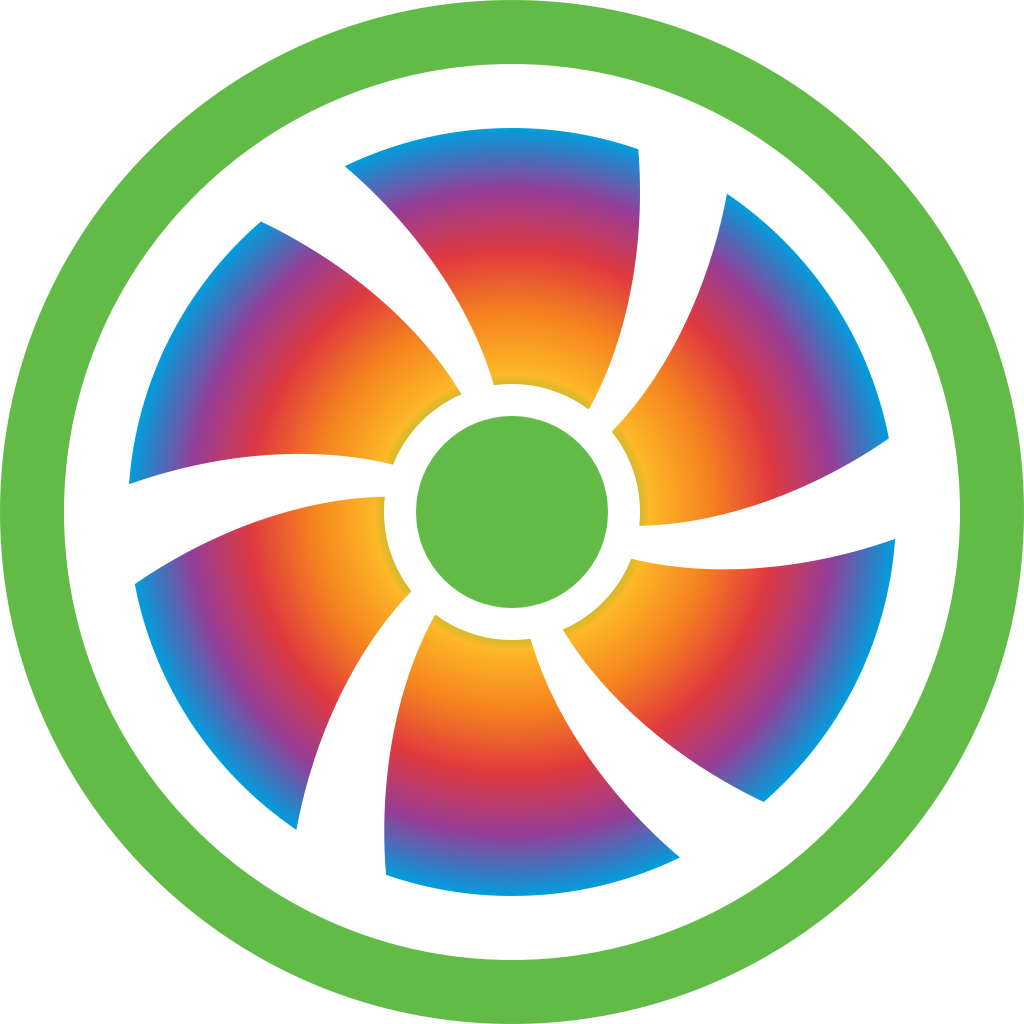
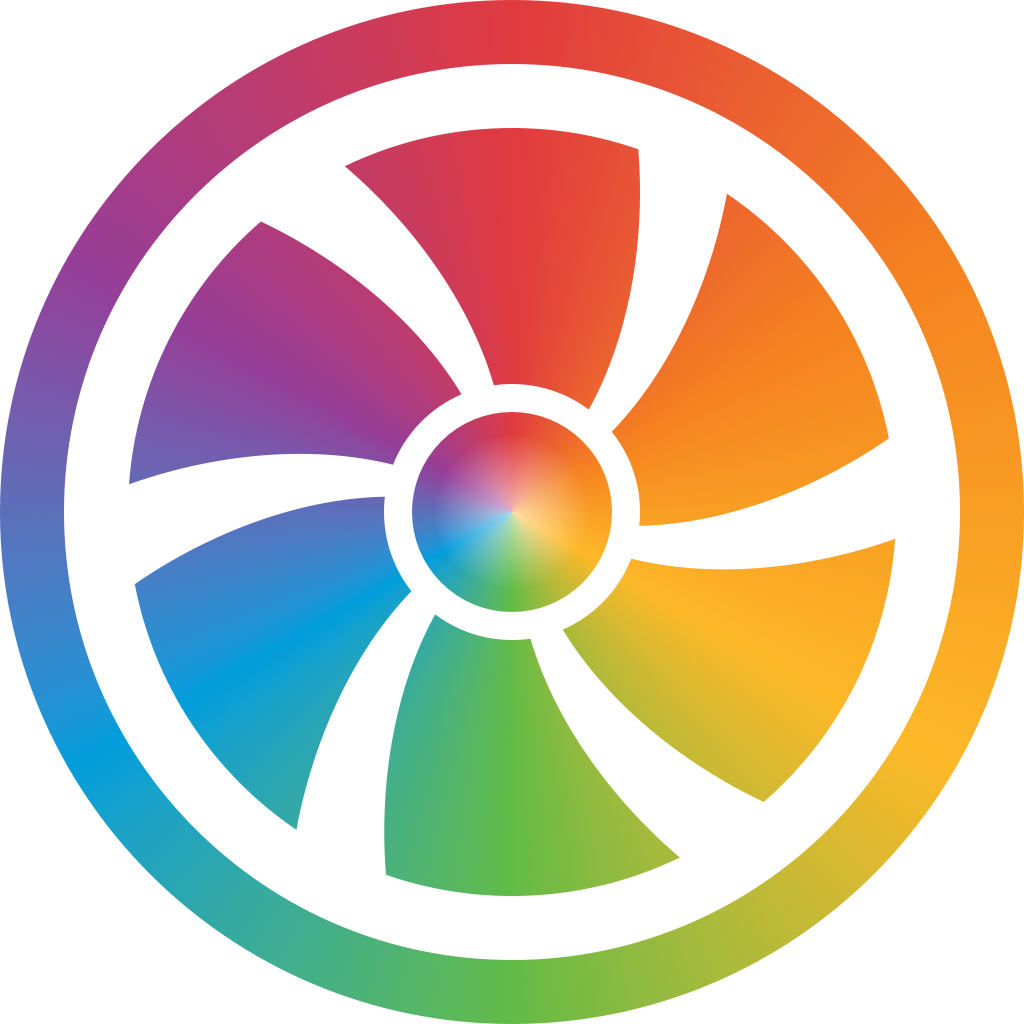
Draw the rainbow fan as a pinwheel with a solid, lit hub

diff --git a/scripts/make-rainbow-icon.swift b/scripts/make-rainbow-icon.swift
@@ -1,9 +1,10 @@
-// Draws the fan in the six colors of the rainbow, in rings from the hub outward, for the app icon that
+// Draws the fan in the six colors of the rainbow, running around the hub, for the app icon that
 // AirFlow shows while Adaptive is the current preset. The picture is a layer of the Icon Composer
 // document AppIconRainbow.icon, so macOS gives it Liquid Glass like the first icon.
 //
 //   swift scripts/make-rainbow-icon.swift
 import AppKit
+import QuartzCore
 
 let root = URL(fileURLWithPath: FileManager.default.currentDirectoryPath)
 let parts = root.appendingPathComponent("AirFlow/Resources/AppIcon.icon/Assets")
@@ -20,19 +21,31 @@ for name in ["housing.svg", "blades.svg"] {
     guard let part = NSImage(contentsOf: parts.appendingPathComponent(name)) else { fatalError("no \(name)") }
     part.draw(in: rect)
 }
-// The hub is one solid disc: the mark's dot, filled out a little, with a gap left before the blades.
+// The hub is one solid disc: the mark's dot, filled out, with a gap left before the blades.
 NSColor.black.setFill()
-NSBezierPath(ovalIn: NSRect(x: side / 2 - 96, y: side / 2 - 96, width: 192, height: 192)).fill()
-// The rainbow runs outward in rings, drawn through the fan. The hub is one color, the blades step
-// through the others, and the housing comes back to the hub's color.
+NSBezierPath(ovalIn: NSRect(x: side / 2 - 100, y: side / 2 - 100, width: 200, height: 200)).fill()
+// The rainbow runs around the hub like a pinwheel, drawn through the fan.
+let rainbow: [UInt32] = [0x61BB46, 0xFDB827, 0xF5821F, 0xE03A3E, 0x963D97, 0x009DDC]
 context.cgContext.setBlendMode(.sourceIn)
-let stops: [(CGFloat, UInt32)] = [(0, 0x61BB46), (0.19, 0x61BB46), (0.27, 0xFDB827), (0.39, 0xF5821F), (0.51, 0xE03A3E), (0.63, 0x963D97), (0.75, 0x009DDC), (0.86, 0x61BB46), (1, 0x61BB46)]
-let ringColors = stops.map { stop in
-    CGColor(srgbRed: CGFloat((stop.1 >> 16) & 0xFF) / 255, green: CGFloat((stop.1 >> 8) & 0xFF) / 255, blue: CGFloat(stop.1 & 0xFF) / 255, alpha: 1)
+let wheel = CAGradientLayer()
+wheel.type = .conic
+wheel.frame = rect
+wheel.startPoint = CGPoint(x: 0.5, y: 0.5)
+wheel.endPoint = CGPoint(x: 0.5, y: 0)
+wheel.colors = (rainbow + rainbow.prefix(1)).map { hex in
+    CGColor(srgbRed: CGFloat((hex >> 16) & 0xFF) / 255, green: CGFloat((hex >> 8) & 0xFF) / 255, blue: CGFloat(hex & 0xFF) / 255, alpha: 1)
 }
-guard let rings = CGGradient(colorsSpace: CGColorSpace(name: CGColorSpace.sRGB), colors: ringColors as CFArray, locations: stops.map(\.0)) else { fatalError("no gradient") }
-let middle = CGPoint(x: side / 2, y: side / 2)
-context.cgContext.drawRadialGradient(rings, startCenter: middle, startRadius: 0, endCenter: middle, endRadius: CGFloat(side) / 2, options: [.drawsAfterEndLocation])
+context.cgContext.beginTransparencyLayer(auxiliaryInfo: nil)
+wheel.render(in: context.cgContext)
+context.cgContext.endTransparencyLayer()
+// Every color meets in a point at the middle. A soft light there hides the point, so the hub reads
+// as a bead of the rainbow and not as a small wheel of its own.
+context.cgContext.setBlendMode(.sourceAtop)
+let light = [CGColor(srgbRed: 1, green: 1, blue: 1, alpha: 0.6), CGColor(srgbRed: 1, green: 1, blue: 1, alpha: 0)]
+if let glow = CGGradient(colorsSpace: CGColorSpace(name: CGColorSpace.sRGB), colors: light as CFArray, locations: [0, 1]) {
+    let middle = CGPoint(x: side / 2, y: side / 2)
+    context.cgContext.drawRadialGradient(glow, startCenter: middle, startRadius: 0, endCenter: middle, endRadius: 78, options: [])
+}
 NSGraphicsContext.restoreGraphicsState()
 guard let data = bitmap.representation(using: .png, properties: [:]) else { fatalError("no PNG") }
 try data.write(to: out)

diff --git a/AirFlow/Views/Components/AirAnimation.swift b/AirFlow/Views/Components/AirAnimation.swift
@@ -227,14 +227,15 @@ struct Rotor: View {
     var body: some View {
         if isRainbow {
             // The rotor is the stencil, and the rainbow shows through it.
-            // The rainbow runs outward in rings: the hub is one color, the blades step through the
-            // others, and the housing comes back to the hub's color.
-            RadialGradient(stops: Palette.rainbowRings, center: .center, startRadius: 0, endRadius: size / 2)
+            // The rainbow runs around the hub like a pinwheel. A soft light in the middle hides the
+            // point where every color meets.
+            AngularGradient(colors: Palette.rainbow + Palette.rainbow.prefix(1), center: .center)
+                .overlay(RadialGradient(colors: [.white.opacity(0.6), .white.opacity(0)], center: .center, startRadius: 0, endRadius: size * 0.076))
                 .mask {
                     ZStack {
                         AirAnimation(name: Animations.rotor, loops: true, isActive: isActive, speed: Self.turnsPerSecond(for: fan), tint: .white)
                         // The hub is one solid disc, with a gap left before the blades.
-                        Circle().frame(width: size * 0.1875, height: size * 0.1875)
+                        Circle().frame(width: size * 0.195, height: size * 0.195)
                     }
                 }
                 .frame(width: size, height: size)

diff --git a/AirFlow/Utilities/Theme.swift b/AirFlow/Utilities/Theme.swift
@@ -104,11 +104,6 @@ enum Palette {
     /// They color the fan while Adaptive is the current preset.
     static let rainbow: [Color] = [0x61BB46, 0xFDB827, 0xF5821F, 0xE03A3E, 0x963D97, 0x009DDC].map { Color(light: $0, dark: $0) }
 
-    /// The rainbow as rings from a fan's hub outward. The hub and the housing share the first color.
-    static let rainbowRings: [Gradient.Stop] = zip([0, 0.19, 0.27, 0.39, 0.51, 0.63, 0.75, 0.86, 1], [0, 0, 1, 2, 3, 4, 5, 0, 0]).map {
-        Gradient.Stop(color: rainbow[$1], location: $0)
-    }
-
     /// The color of a kind of work, from the temperature scale: emerald for light work, amber for
     /// bursts, and orange for a long load. The word is always beside it.
     static func workload(_ regime: WorkloadRegime) -> Color {
